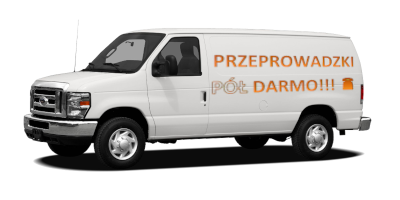
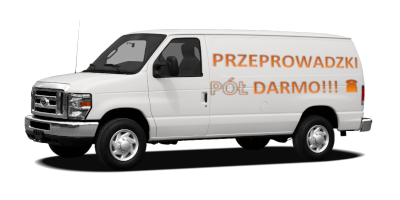
chore: update inf_03_2025_06_04

diff --git a/Exams/INF.03-04-25.06-SG/styles.css b/Exams/INF.03-04-25.06-SG/styles.css
@@ -22,12 +22,12 @@ main {
     display: flex;
 }
 
-.lewa-sekcja {
+.sekcja-lewa {
     width: 70%;
     height: 500px;
 }
 
-.prawa-sekcja {
+.sekcja-prawa {
     background-color: mediumseagreen;
     width: 30%;
     height: 500px;
@@ -36,11 +36,10 @@ main {
 
 table {
     border: 1px dashed darkgreen;
-    text-align: center;
     margin: 30px auto;
 }
 
-table,
+td,
 th {
     padding: 5px;
 }
@@ -49,11 +48,11 @@ a {
     color: white;
 }
 
-ul {
+li {
     list-style-type: circle;
 }
 
-tr:hover {
+table tr:hover {
     background-color: darkgreen;
     color: white;
 }

diff --git a/Exams/INF.03-04-25.06-SG/przewozy.php b/Exams/INF.03-04-25.06-SG/przewozy.php
@@ -1,10 +1,5 @@
 <?php
-
-$db = new mysqli("localhost", 'root', '', 'przewozy');
-if ($db->connect_error) {
-    echo "<p>Błąd połączenia z bazą danych</p>";
-    exit;
-}
+include('baza.php');
 ?>
 
 <!DOCTYPE html>
@@ -14,21 +9,21 @@ if ($db->connect_error) {
     <meta charset="UTF-8">
     <meta name="viewport" content="width=device-width, initial-scale=1.0">
     <link rel="stylesheet" href="styles.css">
-    <title>Firma Przewozowa</title>
+    <title>Firma przewozowa</title>
 </head>
 
 <body>
     <header>
-        <h1>Firma przewozowa Półdarmo</h1>
+        <h1>Firma przewozowa Póldarmo</h1>
     </header>
     <nav>
-        <a href="">kwerenda1</a>
-        <a href="">kwerenda2</a>
-        <a href="">kwerenda3</a>
-        <a href="">kwerenda4</a>
+        <a href="kw1.png">kwerenda1</a>
+        <a href="kw2.png">kwerenda2</a>
+        <a href="kw3.png">kwerenda3</a>
+        <a href="kw4.png">kwerenda4</a>
     </nav>
     <main>
-        <section class="lewa-sekcja">
+        <section class="sekcja-lewa">
             <h2>Zadania do wykonania</h2>
             <table>
                 <tr>
@@ -38,43 +33,47 @@ if ($db->connect_error) {
                 </tr>
 
                 <?php
-                $zapytanie = "select id_zadania, zadanie, data from zadania;";
-                $wynik = $db->query($zapytanie);
+                    $zapytanie = "SELECT id_zadania, zadanie, data FROM zadania;";
+                    $wynik = $baza -> query($zapytanie);
+                    foreach ($wynik as $wiersz) {
+                        $id = intval($wiersz['id_zadania']);
+                        $zadanie = $wiersz['zadanie'];
+                        $data = $wiersz['data'];
 
-                foreach ($wynik as $wiersz) {
-                    $zadanie = $wiersz['zadanie'];
-                    $data = $wiersz['data'];
-                    $id = $wiersz['id_zadania'];
-
-                    echo "<tr>";
-                    echo "<td>$zadanie</td>";
-                    echo "<td>$data</td>";
-                    echo "<td><a href=\"usun.php?id=$id\" >Usuń</a></td>";
-                    echo "</tr>";
-                }
-                ?>
+                        echo "
+                        <tr>
+                            <td>$zadanie</td>
+                            <td>$data</td>
+                            <td><a href=\"usun.php?id=$id\">Usuń</a></td>
+                        </tr>
+                        ";
+                    }
+                ?> 
             </table>
 
             <form action="przewozy.php" method="post">
-                <label>Zadanie do wykonania: <input type="text" name="zadanie" id="zadanie"></label>
-                <label>Data realizacji: <input type="date" name="data" id="data"></label>
+                <label for="zadanie">Zadanie do wykonania</label>
+                <input type="text" name="zadanie" id="zadanie"> <br>
+                <label for="data">Data realizacji: </label>
+                <input type="date" name="data" id="data">
                 <button type="submit">Dodaj</button>
             </form>
 
             <?php
 
-            if ($_SERVER['REQUEST_METHOD'] === 'POST') {
-                $data = $_POST['data'];
-                $zadanie = $_POST['zadanie'];
-                $zapytanie = "insert into zadania (data, osoba_id, zadanie) VALUES ('$data', 1, '$zadanie');";
-                $db->query($zapytanie);
-            }
+                if ($_SERVER['REQUEST_METHOD'] === 'POST') {
+                    $zadanie = $_POST['zadanie'];
+                    $data = $_POST['data'];
 
+                    $zapytanie = "INSERT INTO zadania (zadanie, data, osoba_id) VALUES ('$zadanie', '$data', 1)";
+                    $baza -> query($zapytanie);
+                }
+                
             ?>
         </section>
-        <section class="prawa-sekcja">
+        <section class="sekcja-prawa">
             <img src="auto.png" alt="auto firmowe">
-            <h3>Nasza specjalność</h3>
+            <h3>Nasza spacjalność</h3>
             <ul>
                 <li>Przeprowadzki</li>
                 <li>Przewóz mebli</li>
@@ -91,7 +90,6 @@ if ($db->connect_error) {
 
 </html>
 
-
 <?php
-$db->close();
+$baza -> close();
 ?>

diff --git a/Exams/INF.03-04-25.06-SG/usun.php b/Exams/INF.03-04-25.06-SG/usun.php
@@ -1,18 +1,11 @@
 <?php
+    include('baza.php');
+    if ($_SERVER['REQUEST_METHOD'] === 'GET' && isset($_GET['id'])) {
+        $id = intval($_GET['id']);
 
-$db = new mysqli("localhost", 'root', '', 'przewozy');
-if ($db->connect_error) {
-    echo "<p>Błąd połączenia z bazą danych</p>";
-    exit;
-}
-
-
-if ($_SERVER['REQUEST_METHOD'] === 'GET' && isset($_GET['id'])) {
-    $id = $_GET['id'];
-    $zapytanie = "delete from zadania where id_zadania = $id";
-    $db->query($zapytanie);
-}
-
-header("Location: przewozy.php");
-
+        $zapytanie = "DELETE FROM zadania WHERE id_zadania = $id;";
+        $wynik = $baza -> query($zapytanie);
+        $baza -> close();
+        header("Location: przewozy.php");
+    }
 ?>

diff --git a/Exams/INF.03-04-25.06-SG/baza.php b/Exams/INF.03-04-25.06-SG/baza.php
@@ -1,0 +1,3 @@
+<?php
+$baza = new mysqli('localhost', 'root', '', 'przewozy');
+?>